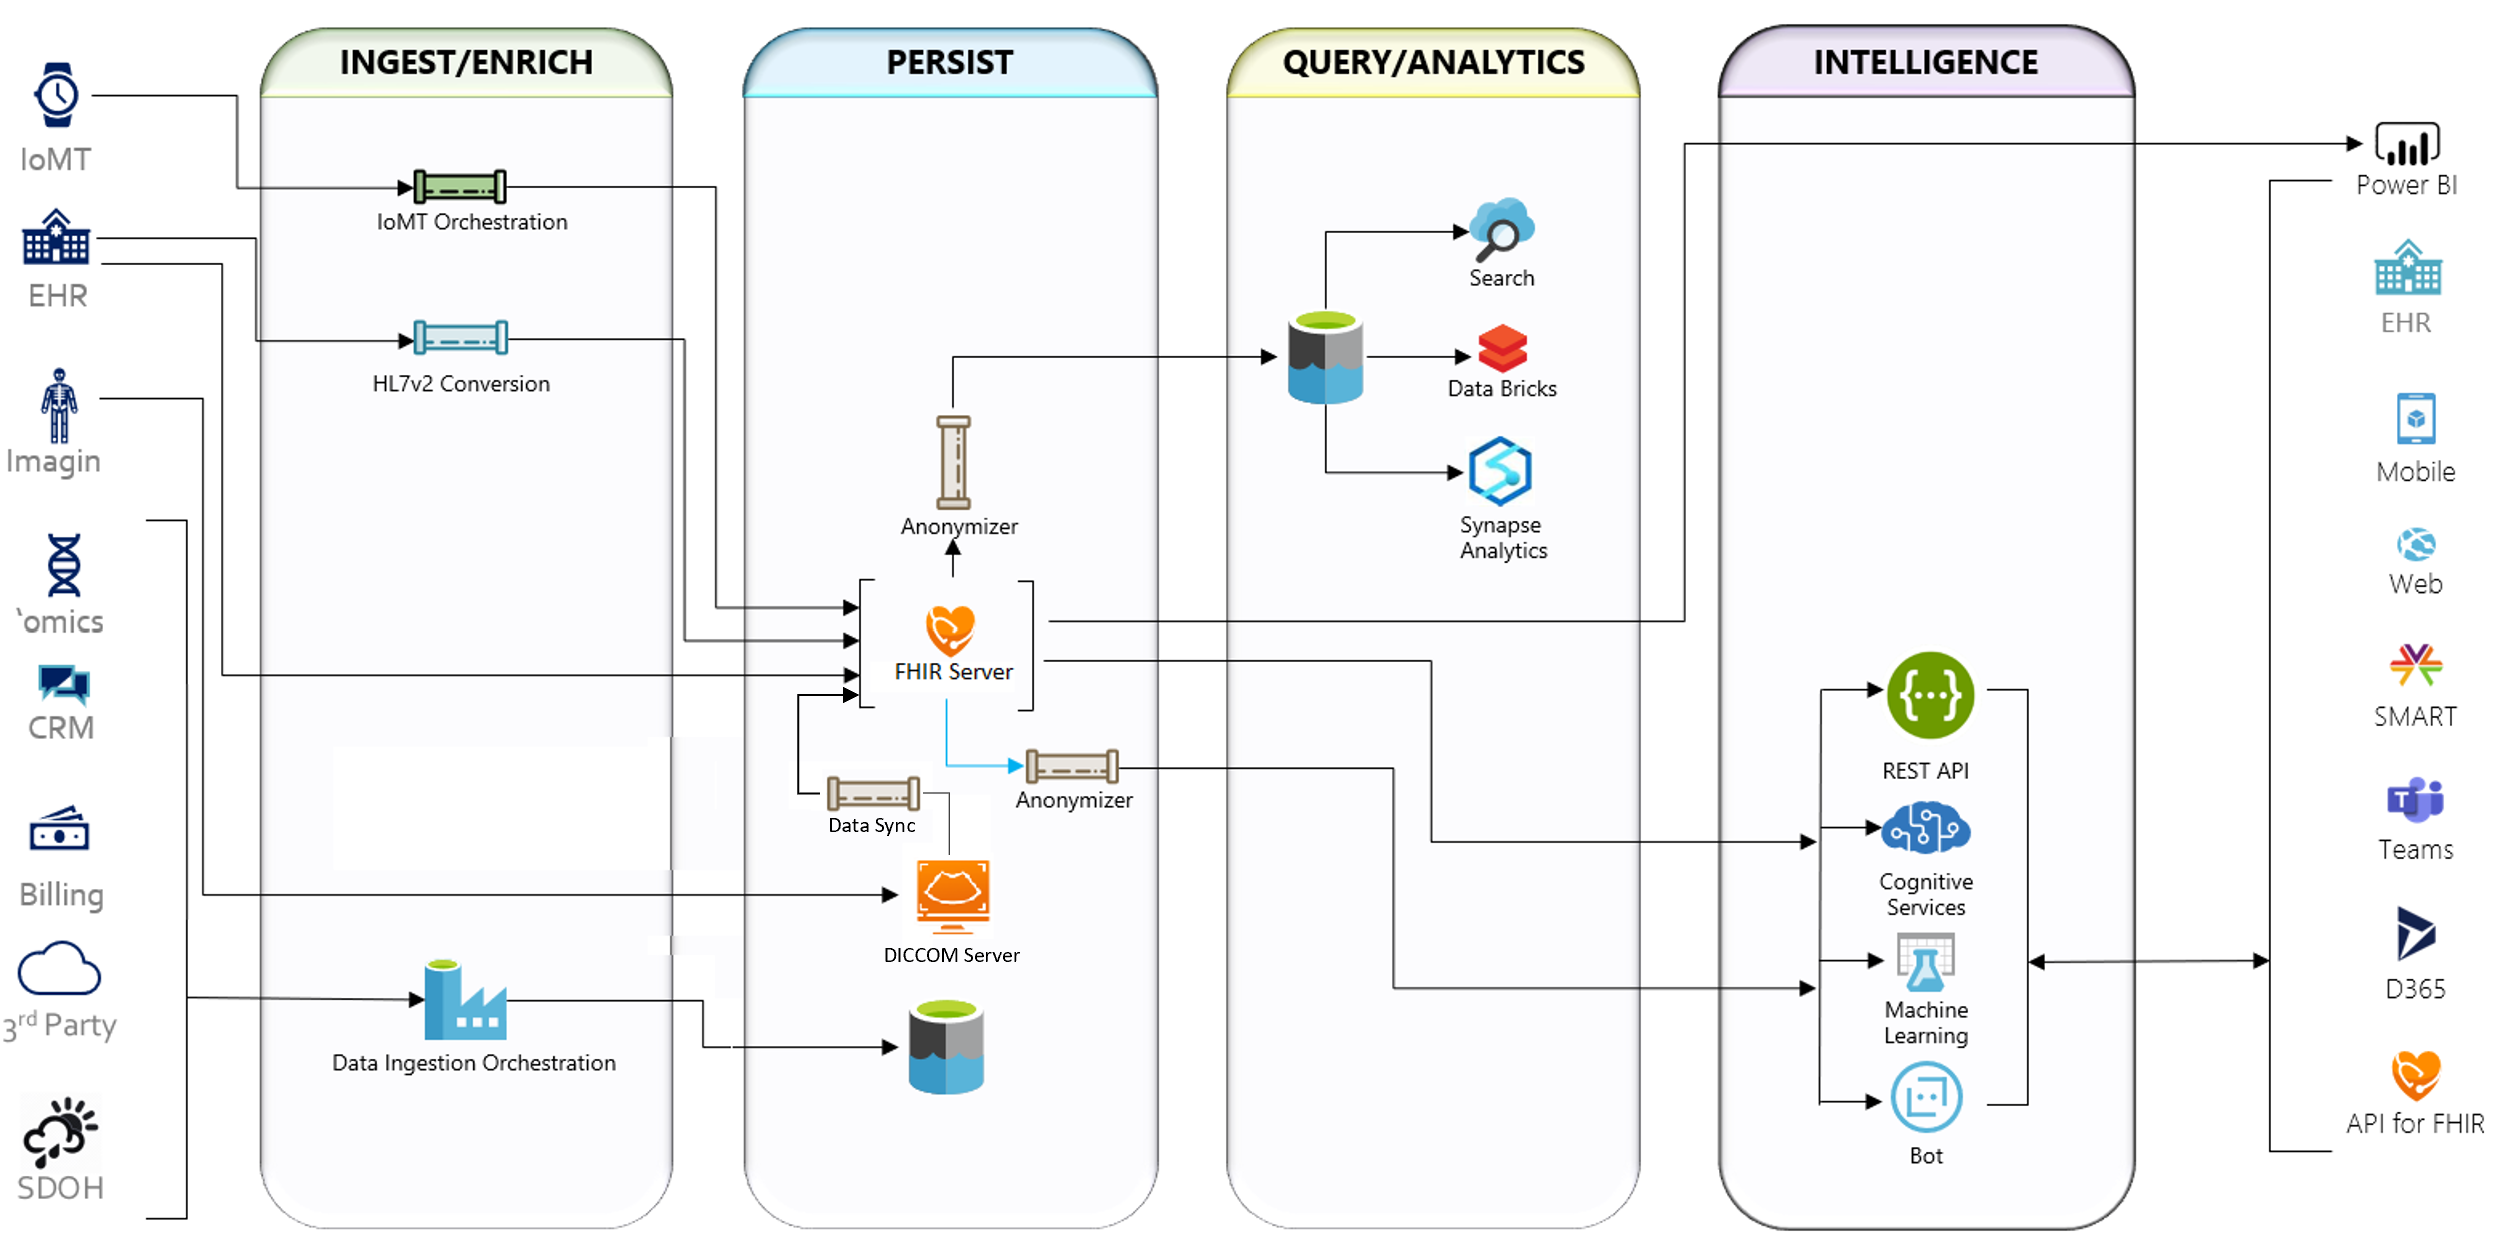
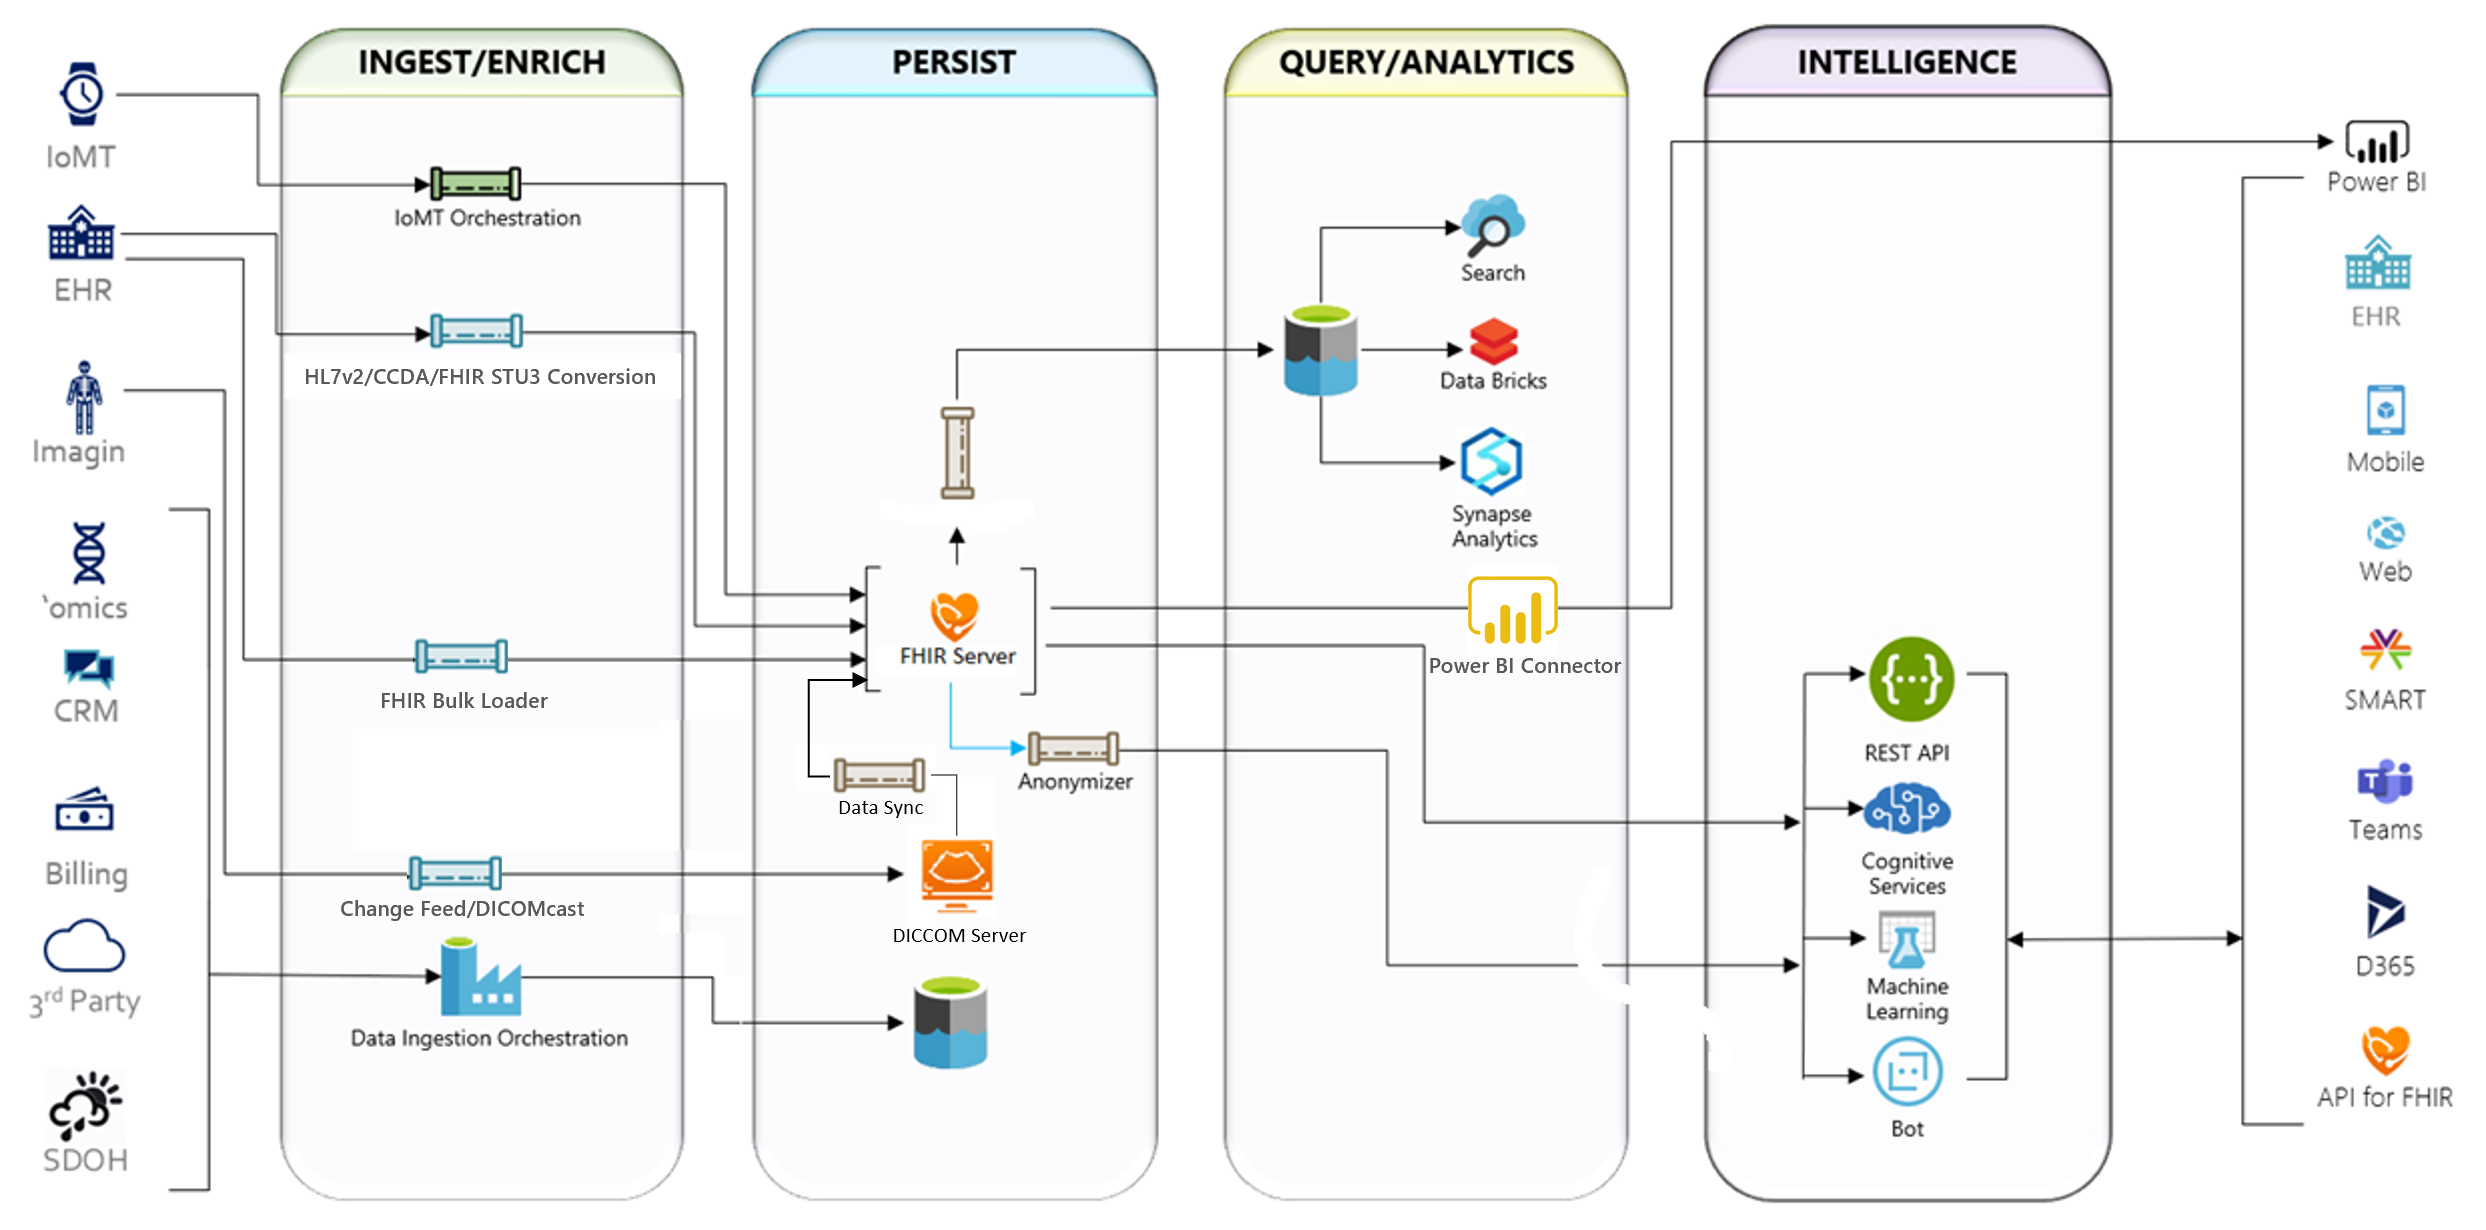
[Hack Update] 027-FHIRPoweredHealthcare contents: HealthArchitecture.png and challenge01.md (#592)
* Updated Student and image folder files for v3

Updated Student folder challenge files and images folder files for v3.

* Update readme and challenges00 files.

* Updated challenge 7 content for MedTech Service

Update challenge 7 IoT ingest and persist for MedTech Service.

* Updated challenges_architecture

Updated challenges_architecture for new challenge 7 content

* Update all challenge images

* Update challenge content and images

* Update challenge content images

* Update challenge 6 contents.

* Update challenge 1 content

* Update challenge 2 contents.

* Update challenge 1 contents.

* Update challenge 2 contents

* Update challenge 6 contents

* Update challenge 6 contents

* Update challenge 7 contents.

* Refactor all challenges to remove deprecated ch3-Read FHIR data

* Update readme content

* Update readme.md

* Update readme.md

* Update readme.md

* Update readme.md

* Update readme.md

* Update Challenge01.md

* Update Challenge05.md

* Update Challenge05.md

* Update readme.md

* Update readme.md

* Update coach's solution content and hack presentation

* Update Solution01.md

* Update Solution file for challenge 5

* Update solution files for challenge 4

* Create Solution06.md

* Update Solution06.md

* Update challenge 6 and solution 6

* Update Solution 6 and postman collections

* Update Solution06.md

* Update Solution06.md

* Update HealthArchitecture.png

* Update Challenge06.md

* Update Challenge06.md

* Update Challenge06.md
[…]

diff --git a/027-FHIRPoweredHealthcare/Student/Challenge01.md b/027-FHIRPoweredHealthcare/Student/Challenge01.md
@@ -14,6 +14,11 @@ In this scenario, you will deploy a storage account with a BLOB container and co
 ## Description
 
 First you will deploy **[Azure Health Data Services workspace](https://docs.microsoft.com/en-us/azure/healthcare-apis/workspace-overview)** and **[deploy a FHIR service](https://docs.microsoft.com/en-us/azure/healthcare-apis/fhir/fhir-portal-quickstart)** within the workspace.
+   - You need to register your **[public client application](https://learn.microsoft.com/en-us/azure/healthcare-apis/register-application)**  to connect FHIR Loader and Postman desktop apps to FHIR service in Azure Health Data Services.
+   - Then **[Configure RBAC roles](https://learn.microsoft.com/en-us/azure/healthcare-apis/configure-azure-rbac)**  to assign access to the Azure Health Data Services data plane.
+   - After creating the new client application, you will **[create a new client secret](https://learn.microsoft.com/en-us/azure/healthcare-apis/register-application#certificates--secrets)**.
+   
+   Note: Make sure to copy and store the Client ID and Password needed in the FHIR Loader script deployment later.
 
 You will then implement the **[FHIR Bulk Loader](https://github.com/microsoft/fhir-loader)** Function App solution to ingest and load Synthea generated FHIR patient data into the FHIR service in near real-time.
 - Install and configure FHIR Bulk Loader with the deploy **[script](https://github.com/microsoft/fhir-loader/blob/main/scripts/Readme.md#getting-started)**.
@@ -38,8 +43,8 @@ To test the FHIR Bulk Loader, you will copy Synthea generated test FHIR patient 
    - Copy from Synthea project subfolder `./output/fhir` to `bundles` BLOB container.
    - You can copy data to Azure Storage using **[Azure AzCopy](https://docs.microsoft.com/en-us/azure/storage/common/storage-use-azcopy-v10)** commandline tool or **[Azure Storage Explorer](https://docs.microsoft.com/en-us/azure/storage/blobs/storage-quickstart-blobs-storage-explorer#upload-blobs-to-the-container)** user interface.
 - Test the results of FHIR bulk load using Postman `FHIR API` collection to retreive FHIR patient data loaded.
-   - You need to first register your **[public client application](https://learn.microsoft.com/en-us/azure/healthcare-apis/register-application)**  to connect Postman desktop app to FHIR service in Azure Health Data Services.
-   - Then **[Configure RBAC roles](https://learn.microsoft.com/en-us/azure/healthcare-apis/configure-azure-rbac)**  to assign access to the Azure Health Data Services data plane.
+   - You need to first register your **[public client application](https://learn.microsoft.com/en-us/azure/healthcare-apis/register-application)**  to connect Postman desktop app to FHIR service in Azure Health Data Services (if not completed previously).
+   - Then **[Configure RBAC roles](https://learn.microsoft.com/en-us/azure/healthcare-apis/configure-azure-rbac)**  to assign access to the Azure Health Data Services data plane (if not completed previously).
    - To **[access FHIR service using Postman](https://learn.microsoft.com/en-us/azure/healthcare-apis/fhir/use-postman)**, you need to import the FHIR API Postman collection and environment variables:
       - You can find the Postman template files (`WTHFHIR.postman_collection.json` and `WTHFHIR.postman_environment.json`) in the `/Postman` folder of the Resources.zip file provided by your coach. 
       - **[Import](https://learning.postman.com/docs/getting-started/importing-and-exporting-data/)** the environment and collection template files into your Postman